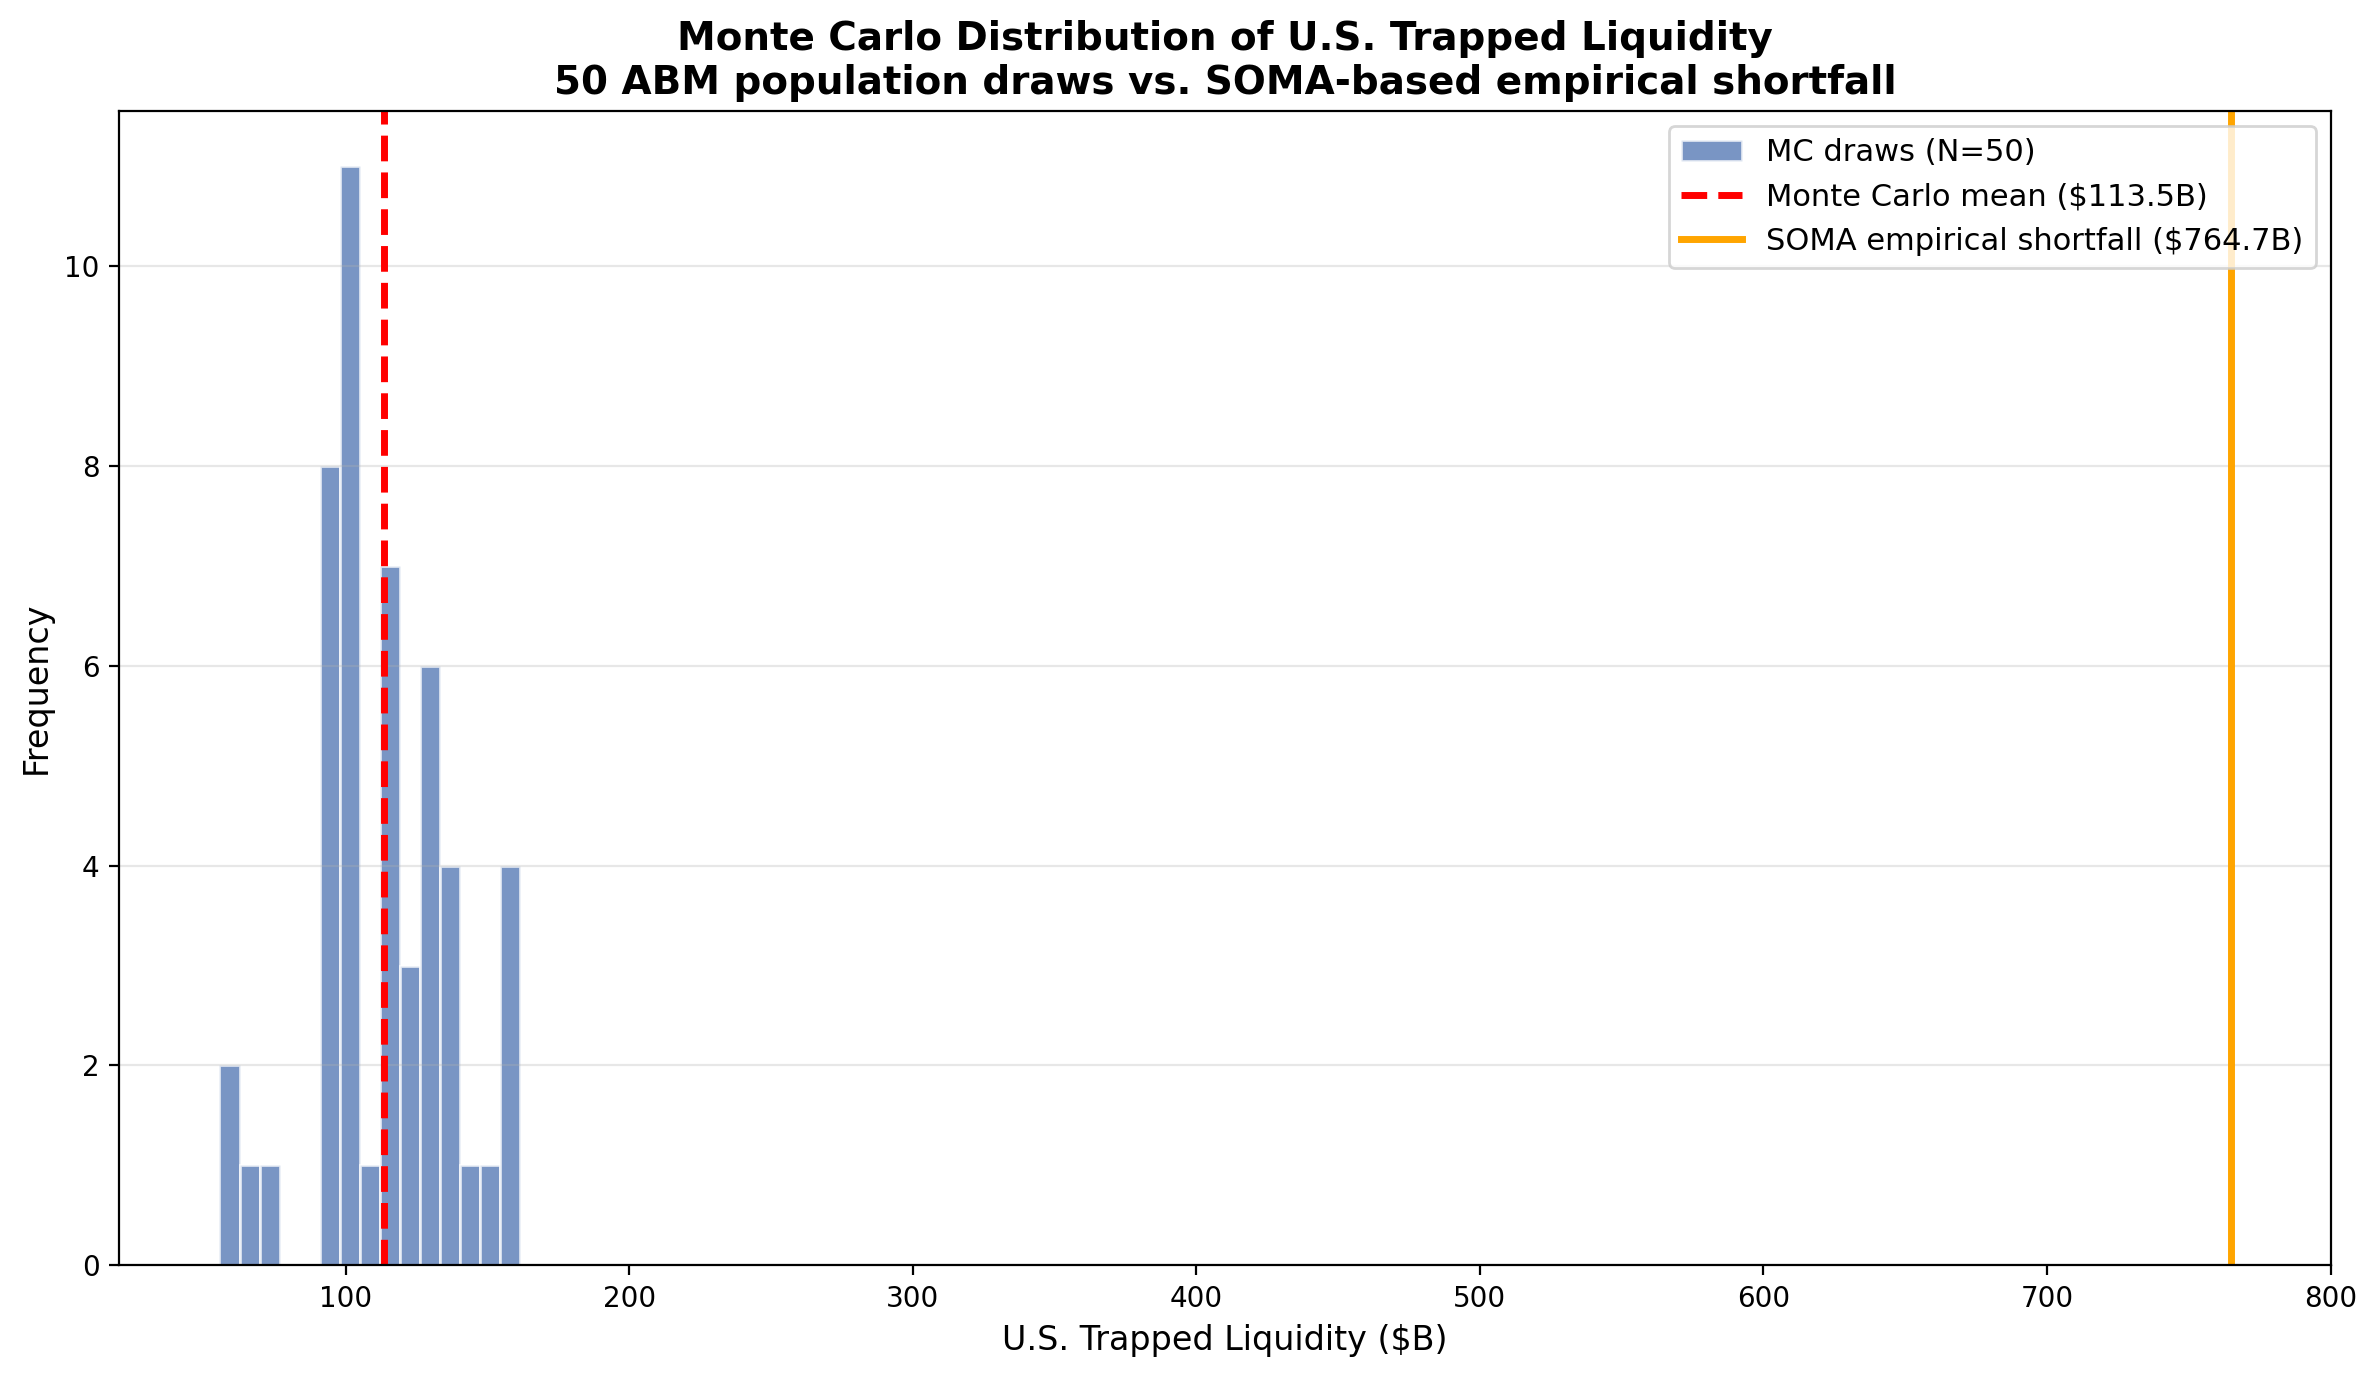
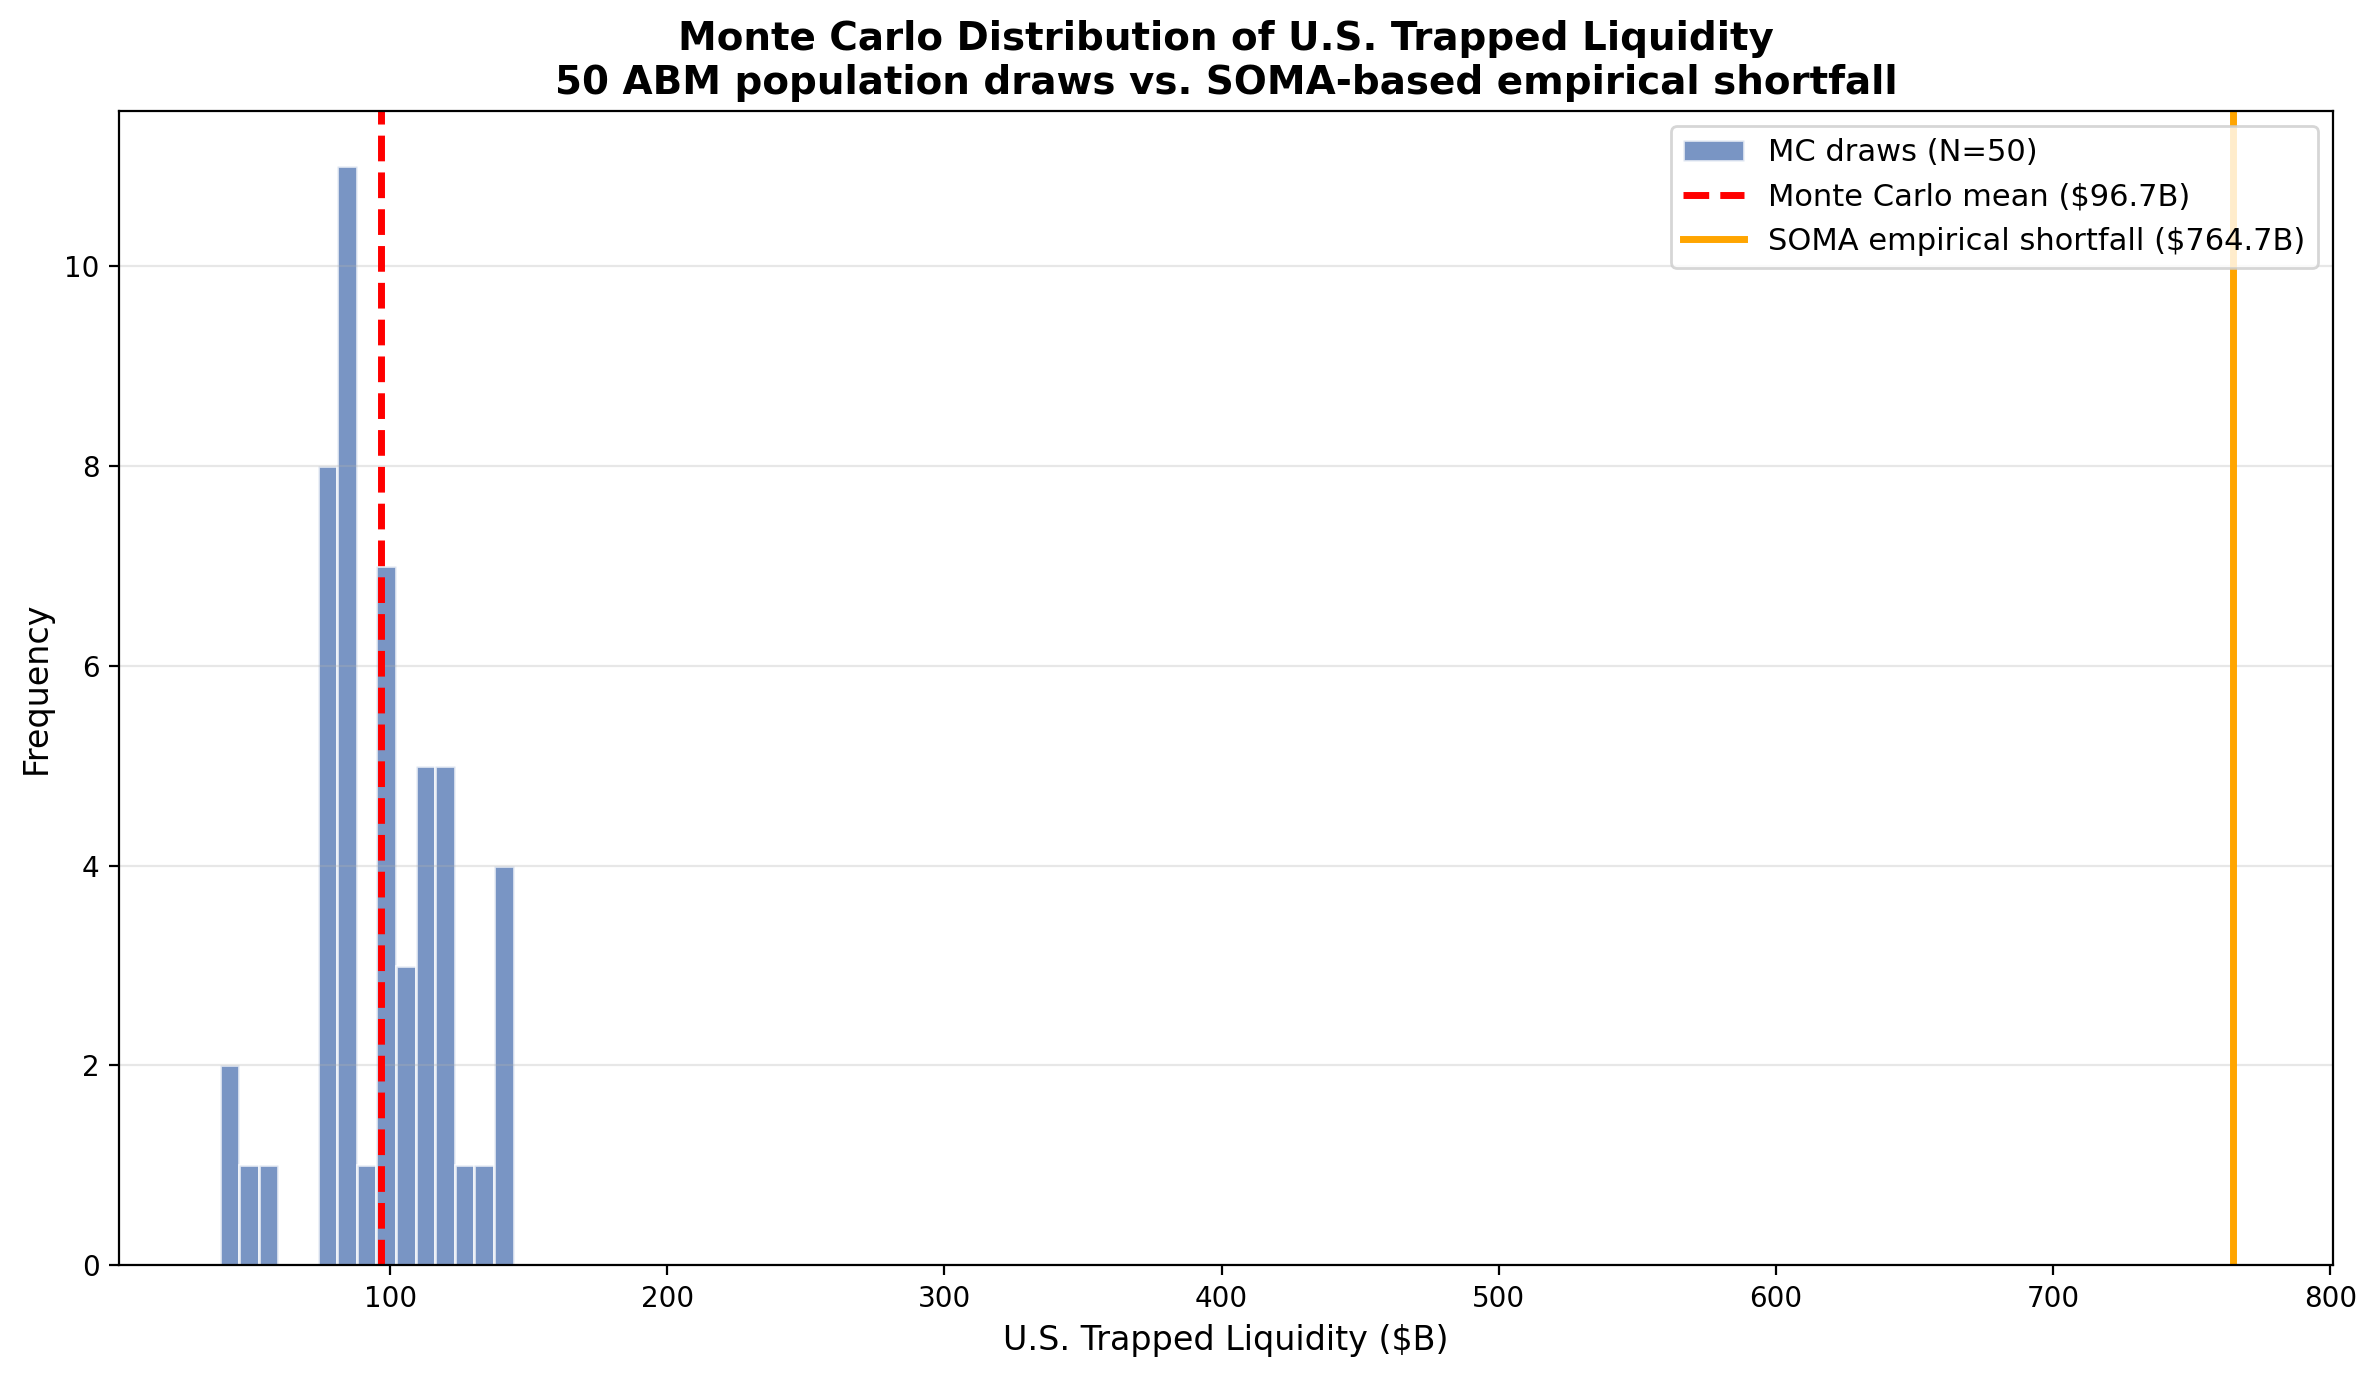
Re-run Monte Carlo (50 seeds) against current production pipeline
The $113.5B MC estimate predated the entire robustness program (30yr-only
book, pre-beta1-fix, pre-Berger). Two harness fixes were required first:
surface_df_to_surfaces still keyed by coupon alone, which would merge 15yr
and 30yr slabs sharing a coupon (pivot error) — now keys (coupon, term)
like fed.load_cpr_surface; and per-seed full-grid surface rebuilds were
needlessly expensive — grids are now restricted to the contiguous
sub-ranges bracketing every queried coordinate, which is bit-identical
under np.interp (verified on seed 0: 97.72444982717448 both ways) and cut
runtime to ~1.7s/seed. Also added --seeds/--out chunking and per-seed
checkpointing.

Result (N=50, surface rebuilt per draw, native 15yr gate + Berger Danish):
mean $96.7B, std $24.8B, 95% CI of mean [$89.8B, $103.6B] vs production
point estimate $84.5B (seed 42). Population-draw uncertainty is ~29% of
the point estimate — the ABM headline should be quoted as a range. §12
table and lineage updated (now ends at run-2026-07-05-berger), §14
next-step closed, abm/README currency note added.

diff --git a/abm/monte_carlo_simulation.py b/abm/monte_carlo_simulation.py
@@ -17,6 +17,7 @@ Run:
     python3 monte_carlo_simulation.py
 """
 
+import argparse
 import random
 import time
 
@@ -42,16 +43,62 @@ N_RUNS = 50
 def surface_df_to_surfaces(surf: pd.DataFrame):
     """
     Convert the ABM surface DataFrame into the format fed.compute_metrics
-    expects: a dict keyed by coupon when Cohort_Coupon is present, else a
-    single 2D/3D tuple.
+    expects: a dict keyed by (coupon, term_months) when Cohort_Coupon is
+    present (matching fed.load_cpr_surface), else a single 2D/3D tuple.
     """
     if "Cohort_Coupon" in surf.columns:
+        if "Cohort_Term" not in surf.columns:
+            surf = surf.copy()
+            surf["Cohort_Term"] = fed.PORTFOLIO_TERM
         surfaces = {}
-        for coupon, grp in surf.groupby("Cohort_Coupon"):
-            slab = grp.drop(columns=["Cohort_Coupon"])
-            surfaces[float(coupon)] = fed._surface_tuple_from_dataframe(slab)
+        for (coupon, term), grp in surf.groupby(["Cohort_Coupon", "Cohort_Term"]):
+            slab = grp.drop(columns=["Cohort_Coupon", "Cohort_Term"])
+            key = (fed._round_coupon(coupon), int(term))
+            surfaces[key] = fed._surface_tuple_from_dataframe(slab)
         return surfaces
     return fed._surface_tuple_from_dataframe(surf)
+
+
+def restrict_grids_to_observed(fred_df: pd.DataFrame) -> None:
+    """
+    Shrink the ABM's surface grids to the contiguous sub-ranges that bracket
+    every coordinate compute_metrics will query for this macro frame.
+
+    Correctness: interp_cpr_surface uses nested np.interp over each grid
+    array. For any query q, np.interp only reads the two nodes bracketing q,
+    so a CONTIGUOUS subset of the original grid that still brackets all
+    queries returns bit-identical interpolants. This is a pure speedup
+    (~4-5x per seed), not an approximation. Asserts coverage before trimming.
+    """
+    macro = fed.calculate_dynamic_friction(fred_df.copy())
+    macro["Rate_6M_Change"] = macro["MORTGAGE30US"].diff(6).fillna(0.0) / 100.0
+
+    def contiguous_subrange(grid: np.ndarray, lo: float, hi: float) -> np.ndarray:
+        grid = np.sort(np.asarray(grid))
+        # Queries beyond the original grid clamp to its end nodes; keeping the
+        # original boundary node preserves that clamping exactly.
+        lo, hi = max(lo, float(grid[0])), min(hi, float(grid[-1]))
+        i0 = max(int(np.searchsorted(grid, lo, side="right")) - 1, 0)
+        i1 = min(int(np.searchsorted(grid, hi, side="left")) + 1, len(grid))
+        sub = grid[i0:i1]
+        assert sub[0] <= lo and sub[-1] >= hi, "subgrid must bracket queries"
+        return sub
+
+    rates = macro["MORTGAGE30US"] / 100.0
+    abm.RATE_GRID = contiguous_subrange(
+        abm.RATE_GRID, float(rates.min()), float(rates.max()))
+    abm.FRICTION_GRID = contiguous_subrange(
+        abm.FRICTION_GRID,
+        float(macro["Dynamic_Friction"].min()),
+        float(macro["Dynamic_Friction"].max()))
+    abm.RATE_VELOCITY_GRID = contiguous_subrange(
+        abm.RATE_VELOCITY_GRID,
+        float(macro["Rate_6M_Change"].min()),
+        float(macro["Rate_6M_Change"].max()))
+    print(f"Grids restricted to observed ranges: "
+          f"{len(abm.RATE_GRID)} rates x {len(abm.FRICTION_GRID)} frictions "
+          f"x {len(abm.RATE_VELOCITY_GRID)} velocities "
+          f"(interpolation-identical to the full grid)")
 
 
 def us_trapped(metrics: pd.DataFrame) -> float:
@@ -130,6 +177,17 @@ def plot_histogram(values: np.ndarray, mean: float,
 # Main
 # ---------------------------------------------------------------------------
 def main():
+    parser = argparse.ArgumentParser(description=__doc__)
+    parser.add_argument("--seeds", nargs=2, type=int, default=[0, N_RUNS],
+                        metavar=("START", "STOP"),
+                        help="half-open seed range for this chunk")
+    parser.add_argument("--out", default=None,
+                        help="chunk CSV path (default: production CSV)")
+    parser.add_argument("--no-plot", action="store_true")
+    args = parser.parse_args()
+    seed_start, seed_stop = args.seeds
+    out_csv = args.out or RESULTS_CSV
+
     print("Fetching empirical medians and FRED data once …")
     income, home_value = abm.fetch_macro_from_fred()
     fred_df = fed.fetch_data()
@@ -139,6 +197,8 @@ def main():
 
     print("Fetching SOMA MBS coupon cohorts once …")
     cohorts = fed.fetch_soma_mbs_cohorts()
+
+    restrict_grids_to_observed(fred_df)
 
     ref = abm.reference_cohort(cohorts)
     print("Calibrating mobility desire once (reused across all seeds) …")
@@ -162,11 +222,12 @@ def main():
     soma_target = empirical_trapped(baseline_metrics)
     print(f"Empirical trapped liquidity (SOMA): ${soma_target:,.1f}B")
 
-    print(f"\nRunning {N_RUNS} Monte Carlo iterations "
+    n_chunk = seed_stop - seed_start
+    print(f"\nRunning seeds [{seed_start}, {seed_stop}) "
           f"(CPR surface rebuild per seed) …")
     rows = []
     t0 = time.perf_counter()
-    for i in range(N_RUNS):
+    for i in range(seed_start, seed_stop):
         iter_t0 = time.perf_counter()
         trapped = run_single_iteration(i, fred_df, mobility_scale,
                                        income, home_value,
@@ -175,16 +236,19 @@ def main():
         iter_elapsed = time.perf_counter() - iter_t0
         rows.append({"seed": i, "trapped_us_b": trapped,
                        "elapsed_sec": iter_elapsed})
-        print(f"  [{i + 1:>2}/{N_RUNS}] seed={i:>2}  "
+        pd.DataFrame(rows).to_csv(out_csv, index=False)  # checkpoint
+        print(f"  [{i - seed_start + 1:>2}/{n_chunk}] seed={i:>2}  "
               f"U.S. trapped = ${trapped:,.1f}B  "
               f"({iter_elapsed:.1f}s)")
     total_elapsed = time.perf_counter() - t0
-    print(f"\nTotal Monte Carlo runtime: {total_elapsed/60:.1f} min "
-          f"({total_elapsed/N_RUNS:.1f}s per seed avg)")
+    print(f"\nChunk runtime: {total_elapsed/60:.1f} min "
+          f"({total_elapsed/max(n_chunk,1):.1f}s per seed avg)")
 
     results = pd.DataFrame(rows)
-    results.to_csv(RESULTS_CSV, index=False)
-    print(f"\nResults saved to {RESULTS_CSV}")
+    results.to_csv(out_csv, index=False)
+    print(f"\nResults saved to {out_csv}")
+    if args.no_plot or n_chunk < N_RUNS:
+        return
 
     values = results["trapped_us_b"].to_numpy()
     mean = float(values.mean())

diff --git a/TECHNICAL.md b/TECHNICAL.md
@@ -420,7 +420,7 @@ Literature microsim is calibrated via defendable bounds (PSA speed, Rothstein ba
 | Empirical CPR back-out | 5.14% (15yr scheduled amort weighted in; §15 Fix 2) |
 | Danish CPR mean | **3.36%** (was 44.09%; Berger 3.2% flat moving + ≈0 refi) |
 | Institutional wedge (DK − US) | −8.40pp mean |
-| Monte Carlo (50 seeds) | not re-run; prior estimate ($113.5B, 30yr-only book) is stale |
+| Monte Carlo (50 seeds, current pipeline) | mean **$96.7B**, std $24.8B, 95% CI of mean **[$89.8B, $103.6B]** |
 
 The defensible institutional-gap headline is the **Path B hybrid −$99.9B** (both
 regimes empirically grounded); the ABM's −$728B overstates the reversal because
@@ -428,11 +428,15 @@ its U.S. leg is over-predicted (§20).
 
 Lineage (each reproducible): `run-2026-07-04` (30yr-only, $101.2B / 13.2%,
 `terms=("30yr",)`) → `run-2026-07-04-15yr-foldin` (structural-only 15yr,
-$91.0B / 11.9%, §15 Fix 2) → **`run-2026-07-05-native15yr`** (native 15yr
-behavioral gate, $84.5B / 11.1%, §19, current). Note: the §15 Fix 1
-cross-design, §17.1 hybrid, and §18 2×2 analyses were run against the
-immediately-prior $91.0B / 11.9% baseline; the native-15yr revision shifts the
-ABM cell by <1pp and leaves every qualitative conclusion unchanged.
+$91.0B / 11.9%, §15 Fix 2) → `run-2026-07-05-native15yr` (native 15yr
+behavioral gate, $84.5B / 11.1%, §19) → **`run-2026-07-05-berger`** (Berger
+Danish recalibration, U.S. leg unchanged at $84.5B, §20, current). Note: the
+§15 Fix 1 cross-design, §17.1 hybrid, and §18 2×2 analyses were run against
+the $91.0B / 11.9% baseline; the native-15yr revision shifts the ABM cell by
+<1pp and leaves every qualitative conclusion unchanged. Monte Carlo (seeds
+0–49, surface rebuilt per draw against this pipeline) puts population-draw
+uncertainty at std $24.8B — ~29% of the point estimate — so the ABM headline
+should be quoted as “~$85–97B (11–13%)” rather than to three digits.
 
 Reproduce: `cd abm && python3 freeze_run.py --tag <name>` → `data/runs/<name>/manifest.json`. All CPR means use the 42-month active QT window (`qt_active_frame`), not `index >= QT_START` alone.
 
@@ -510,7 +514,7 @@ Reproduce: `cd abm && python3 freeze_run.py --tag <name>` → `data/runs/<name>/
 
 1. ~~**Symmetric companion test**~~ — **done (§18).** Path B on a fully synthetic population recovers 106.0% vs 107.0% real; the hazard survival structure recovers the benchmark with zero real data, while the ABM needs real covariates to reach even 59%. The paradigm gap survives the data-source swap; only the CPR *path* shape (not the level) still depends on real structure.
 2. **Reconcile the cross-design and synthetic-companion results with the paper's paradigm claim.** The recalibrated cross-design variant recovers 59.3% (above the pre-registered 50% threshold), and §18 shows the hazard framework recovers 106% even on a fully synthetic population — Table 1/abstract framing needs to address both directly rather than cite only the synthetic-population ABM figure (11.1%).
-3. **Re-run Monte Carlo (50 seeds)** against the 15yr-foldin production tag; the $113.5B estimate on file is 30yr-only and stale.
+3. ~~**Re-run Monte Carlo (50 seeds)**~~ — **done.** Against the current pipeline (native 15yr gate + Berger Danish): mean **$96.7B**, std $24.8B, 95% CI of mean [$89.8B, $103.6B] (was $113.5B on the 30yr-only book). Verified bit-identical under the contiguous-subgrid speedup before running. Population-draw uncertainty is ~29% of the point estimate — quote the ABM headline as a range, not to three digits.
 
 ---
 

diff --git a/abm/README.md b/abm/README.md
@@ -2,6 +2,14 @@
 
 > **Location:** this is the **agent-based model** subproject. The repo root [README.md](../README.md) indexes this folder and the [`../hazard/`](../hazard/) reduced-form hazard framework (cohort hazard + literature microsim with competing risks).
 
+> **Currency note (July 2026):** results quoted in this runbook predate the
+> repository-wide robustness program. Current production is
+> **$84.5B / 11.1%** U.S. trapped (`run-2026-07-05-berger`), Danish CPR
+> **3.4%** under the Berger recalibration (the $930.3B institutional gap is
+> superseded — see root [TECHNICAL.md §20](../TECHNICAL.md)), and Monte Carlo
+> mean **$96.7B** [95% CI $89.8–103.6B]. This document remains accurate as
+> the pre-program record.
+
 Extension-risk scoring can use the literature hazard microsim instead of the utility ABM CPR surface:
 
 ```python
@@ -359,7 +367,7 @@ Alternatively, from the repo root: `python3 abm/abm_lockin_simulation.py` (same 
 - **Historical falsification tests** (behavioral extensions §15, curtailment §16, multi-cohort §19) are documented with their original $672.9B-era numbers; see [TECHNICAL.md §17](TECHNICAL.md) for the current headline table.
 - **The institutional gap**: under the dynamic-balance Danish counterfactual, the portfolio would have **overshot** the QT cap by **-$829.1B** (shrinking from $2,535B to $428B), versus the U.S. system's $101.2B shortfall. The resulting **institutional gap is $930.3B**.
 - **Monthly CPR fit is weak**: raw r = -0.316 at lag 0; peak cross-correlation remains +0.192 at lag -3. Out-of-sample share explained (32.5%) exceeds in-sample (-11.1%), but both R² values are deeply negative.
-- **Robustness**: empirical benchmark is stable across data sources (SOMA vs. WSHOMCB differ by <0.2%) and ranges $479.6B–$782.2B across 18 QT cap-schedule assumptions. Monte Carlo (50 CPR surface rebuilds): mean **$113.5B**, 95% CI **[$106.6B, $120.4B]**.
+- **Robustness**: empirical benchmark is stable across data sources (SOMA vs. WSHOMCB differ by <0.2%) and ranges $479.6B–$782.2B across 18 QT cap-schedule assumptions. Monte Carlo (50 CPR surface rebuilds): mean **$113.5B**, 95% CI **[$106.6B, $120.4B]** on the pre-program 30yr-only book; **current pipeline: mean $96.7B, 95% CI [$89.8B, $103.6B]**.
 - **Dynamic friction** — During 2022-2025, depressed housing inventory and weak consumer sentiment pushed effective friction to roughly **8-10%** (well above the 7% static baseline).
 
 For the complete numbers, methodology, and the history of every bug found and corrected along the way, see [TECHNICAL.md](TECHNICAL.md).
